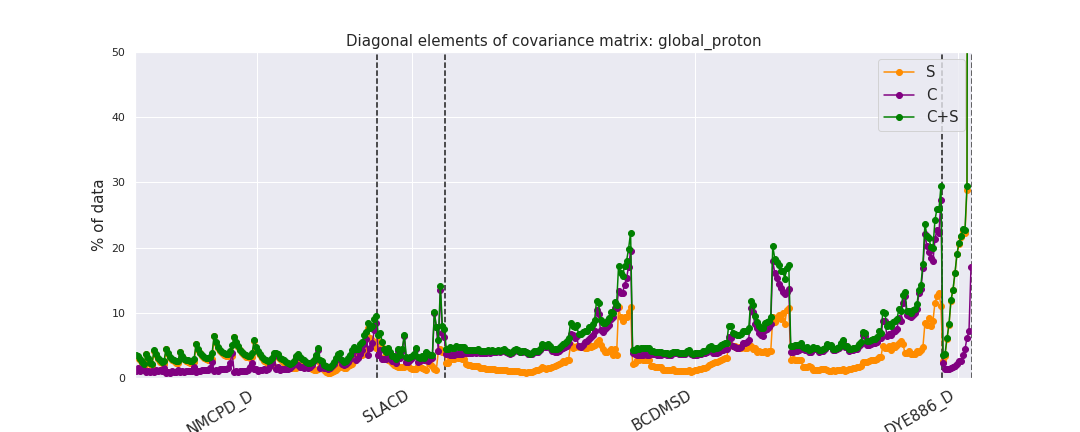
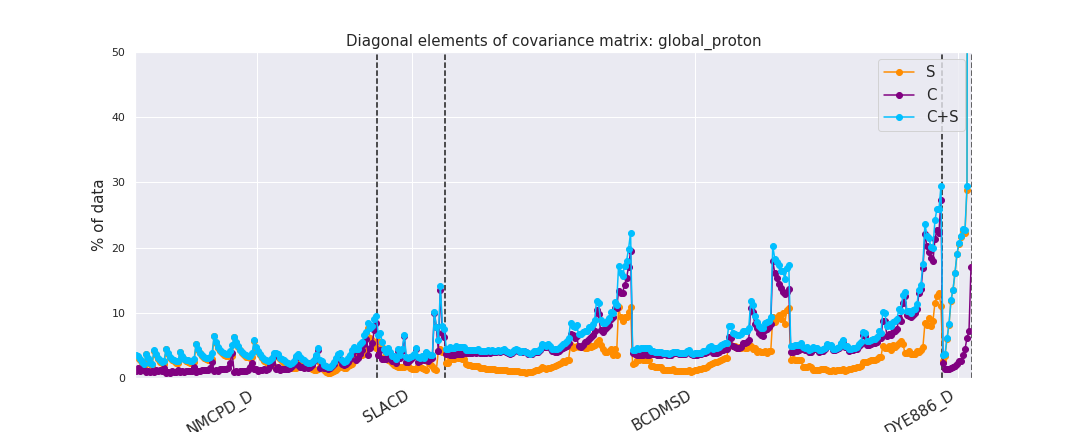
changing plot colour

diff --git a/src/covmat/covmat.py b/src/covmat/covmat.py
@@ -91,7 +91,7 @@ def covmat_plots(label, fp1_table, fp2_table, fp1_covmat):
     fig_diag, ax2 = plt.subplots(figsize=(15,6))
     ax2.plot(100*sqrtdiags, '-o', color="darkorange", label="S")
     ax2.plot(100*expsqrtdiags, '-o', color="purple", label="C")
-    ax2.plot(100*totsqrtdiags, '-o', color="green", label="C+S")
+    ax2.plot(100*totsqrtdiags, '-o', color="deepskyblue", label="C+S")
     ax2.set_ylabel("% of data", fontsize=15)
     ax2.set_title(f"Diagonal elements of covariance matrix: {label}",
                   fontsize=15)
